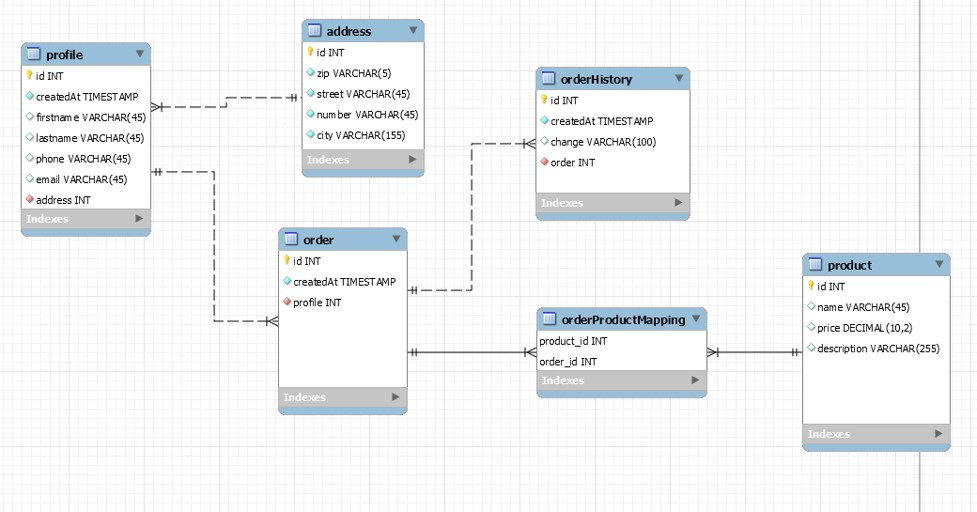
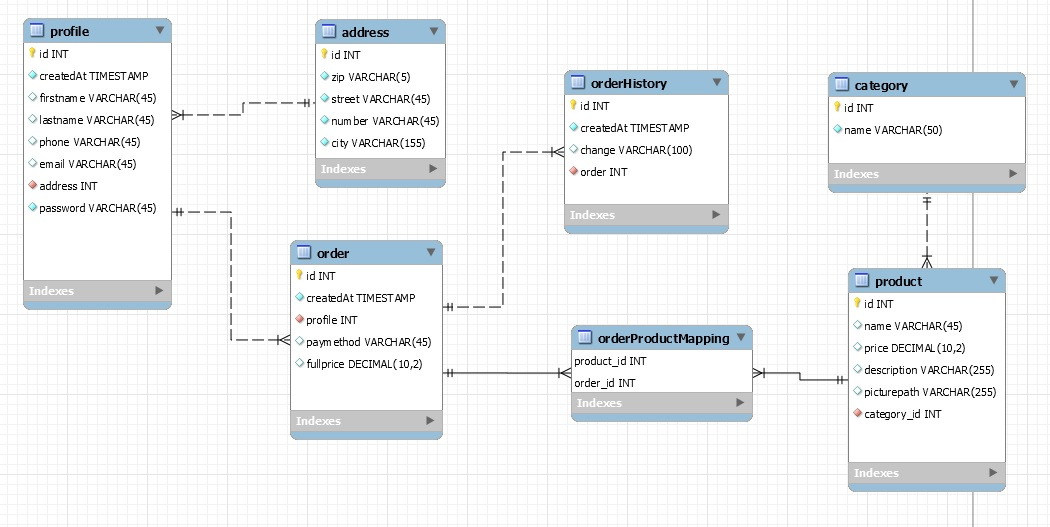
Aktuelles DB Modell eingefügt, Dokumentation erweitert
DB Struktur  in Doku eingefügt
Arbeitsaufteilung beschrieben

diff --git a/views/pages/documentation.php b/views/pages/documentation.php
@@ -47,10 +47,8 @@
         <br><br>
 
         <h3>2. Recherche</h3>
-        <p>
-
-            <a href="https://www.docmorris.de">www.docmorris.de</a>
-            <img src="assets/docMorris.jpg"></p>
+        <p><a href="https://www.docmorris.de">www.docmorris.de</a>
+        <img src="assets/docMorris.jpg"></p>
         <p><a href="https://www.shop-apotheke.com/">www.shop-apotheke.com/</a>
         <img src="assets/shop-apotheke.jpg"></p>
         <p><a href="https://www.medizinfuchs.de">https://www.medizinfuchs.de</a>
@@ -58,10 +56,31 @@
 
         <h3>3. Funktionalitäten</h3>
         <h3>4. Arbeitsaufteilung</h3>       
+        <p>
+            Aufbau und Design(HTML, CSS): Katja Fischer
+        </p>
+        <p>
+            php, Datenbank, Javascript und MVC-Struktur: Marvin Ruppert</p>
+        <p>
+            Textinhalte: Fabian Seeber</p>
+        <p>
+            Dokumentation: Alle
+        </p>
+
         <h3>5. Webseitenstruktur</h3>
         <h3>6. Datenbankstruktur</h3>
+        <p>
+            Zum Entwickeln der Datenbank wurde auf MySQL Workbench zurückgegriffen. Primär wird die Datenbank benötigt um das Shopsystem
+            abzubilden. Außerdem bildet sie die Grundlage für das Registrieren und Anmelden der Benutzer. Eine Besonderheit ist die Mappingtabelle
+            zwischen den beiden Tabellen order und product. Diese wird benötigt, um eine Bestellung mit mehreren Produkten zu ermöglichen bzw. Produkte
+            in mehreren Bestellungen beinhalten zu können, ohne Redundanzen zu erzeugen. Die Datenbank wurde wie nachfolgend realisiert: 
+        </p>
+        <img src="assets/datenbankmodell.jpg">
         <h3>7. Ordnerstruktur</h3>
+        <p>
 
+        </p>
+        <img src="assets/Ordnerstruktur.png">
 
     </div>
 
